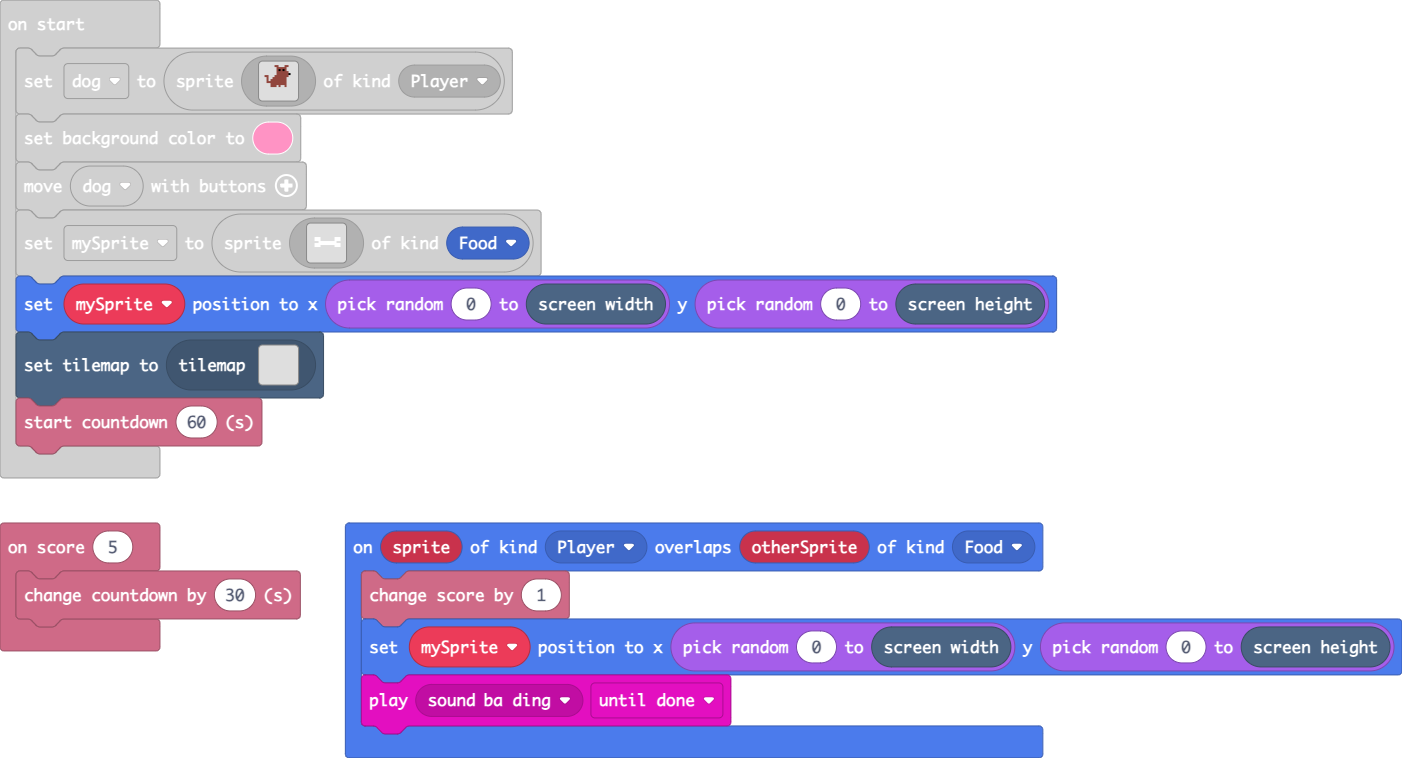
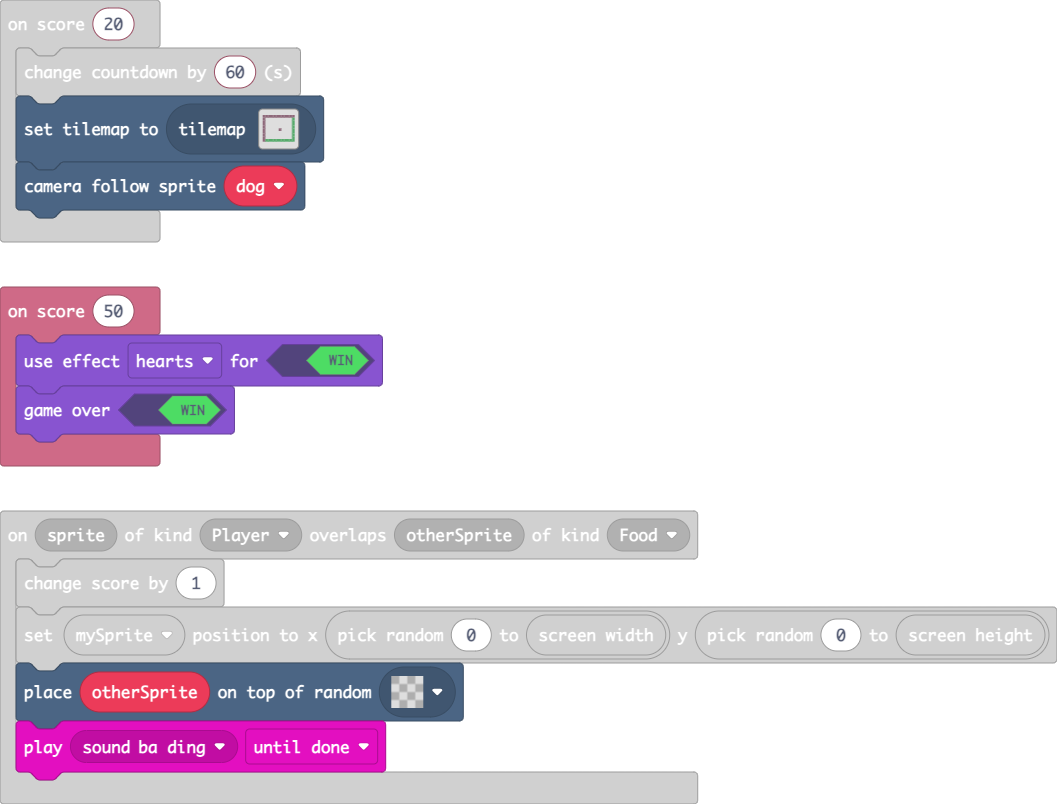
Update main.blocks, main.ts, tilemap.g.jres, tilemap.g.ts

diff --git a/main.ts b/main.ts
@@ -1,13 +1,21 @@
+info.onScore(50, function () {
+    game.setGameOverEffect(true, effects.hearts)
+    game.gameOver(true)
+})
 sprites.onOverlap(SpriteKind.Player, SpriteKind.Food, function (sprite, otherSprite) {
     info.changeScoreBy(1)
     mySprite.setPosition(randint(0, scene.screenWidth()), randint(0, scene.screenHeight()))
+    tiles.placeOnRandomTile(otherSprite, assets.tile`transparency16`)
     music.play(music.melodyPlayable(music.baDing), music.PlaybackMode.UntilDone)
 })
-info.onScore(5, function () {
-    info.changeCountdownBy(30)
+info.onScore(20, function () {
+    info.changeCountdownBy(60)
+    tiles.setCurrentTilemap(tilemap`level2`)
+    scene.cameraFollowSprite(dog)
 })
 let mySprite: Sprite = null
-let dog = sprites.create(assets.image`puppy`, SpriteKind.Player)
+let dog: Sprite = null
+dog = sprites.create(assets.image`puppy`, SpriteKind.Player)
 scene.setBackgroundColor(3)
 controller.moveSprite(dog)
 mySprite = sprites.create(assets.image`bone`, SpriteKind.Food)

diff --git a/tilemap.g.ts b/tilemap.g.ts
@@ -16,6 +16,19 @@ namespace myTiles {
 . . . . . . . . . . 
 . . . . . . . . . . 
 `, [myTiles.transparency16], TileScale.Sixteen);
+            case "level2":
[1 lines of base64/hex data omitted]
+2 2 2 2 2 2 2 2 2 2 2 2 
+2 . . . . . . . . . . 2 
+2 . . . . . . . . . . 2 
+2 . . . . . . . . . . 2 
+2 . . . . . . . . . . 2 
+2 . . . . . 2 . . . . 2 
+2 . . . . . . . . . . 2 
+2 . . . . . . . . . . 2 
+2 . . . . . . . . . . 2 
+2 2 2 2 2 2 2 2 2 2 2 2 
+`, [myTiles.transparency16,sprites.builtin.forestTiles8,sprites.builtin.forestTiles2], TileScale.Sixteen);
         }
         return null;
     })
